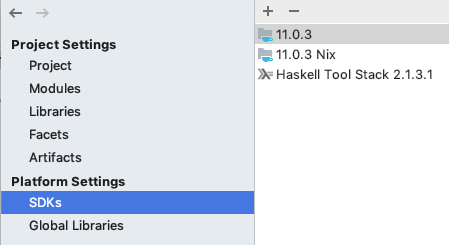
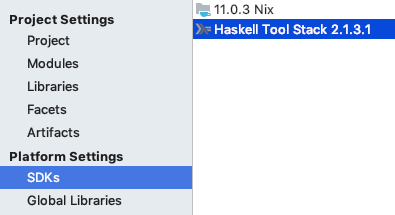
master: Publish

Changed region(s): [[0.0, 0.0, 1.0, 1.0], [0.0, 0.0279, 0.3038, 0.6698]]

diff --git a/posts/2019-03-01-haskell-tool-start.html b/posts/2019-03-01-haskell-tool-start.html
@@ -34,7 +34,7 @@
 <h1 id="install-stack">Install stack</h1>
 <p>IntelliJ requires use of the Stack build tool. Install it by following [these instructions(https://docs.haskellstack.org/en/stable/install_and_upgrade/).</p>
 <h1 id="enable-intellij">Enable IntelliJ</h1>
-<p>In IntelliJ, install the <a href="https://plugins.jetbrains.com/plugin/8258-intellij-haskell/">IntelliJ-Haskell plugin</a>. In <code>File / Project Structure / SDKs</code> (<code>⌘-;</code>), add an entry for Stack. You can find the location of stack via <code>which stack</code>, on OS X typically at <code>/usr/local/bin/stack</code>.</p>
+<p>In IntelliJ, install the <a href="https://plugins.jetbrains.com/plugin/8258-intellij-haskell/">IntelliJ-Haskell plugin</a>. In <code>File / Project Structure / SDKs</code> (<code>⌘-;</code>), add an entry for Stack. <img src="../images/haskell-sdks.png" alt="stack sdk" /> You can find the location of stack via <code>which stack</code>, on OS X typically at <code>/usr/local/bin/stack</code>.</p>
 <h1 id="create-a-project">Create a project</h1>
 <p>In the parent directory where you want to create a Haskell project, run <code>stack new someproject</code>. The output should look like:</p>
 <div class="sourceCode" id="cb1"><pre class="sourceCode bash"><code class="sourceCode bash"><a class="sourceLine" id="cb1-1" title="1"><span class="ex">Downloading</span> template <span class="st">&quot;new-template&quot;</span> to create project <span class="st">&quot;someproject&quot;</span> in someproject/ ...</a>
@@ -60,7 +60,8 @@
 <h2 id="stack-project-templates">Stack project templates</h2>
 <p>TODO</p>
 <h1 id="open-project-in-intellij">Open project in IntelliJ</h1>
-<p>To open the project, select <code>File / New / Project from existing sources</code>. Navigate to and select the <code>someproject</code> directory created above. IntelliJ should open the project. This might take a while, even a long while, to download dependencies and look busy generally.</p>
+<p>To open the project, select <code>File / New / Project from existing sources</code>. Choose Haskell Stack. <img src="../images/haskell-existing-project.png" alt="existing project" /> Navigate to and select the <code>someproject</code> directory created above.</p>
+<p>IntelliJ should open the project. This might take a while, even a long while, to download dependencies and look busy generally.</p>
 <h2 id="ide-capabilities">IDE capabilities</h2>
 <p>IntelliJ can provide some basic IDE capabilities, but if you are used to its capabilities in Java, Kotlin or Scala, you might find the range of capabilities surprisingly minor. Some things it <em>can</em> do:</p>
 <ul>
